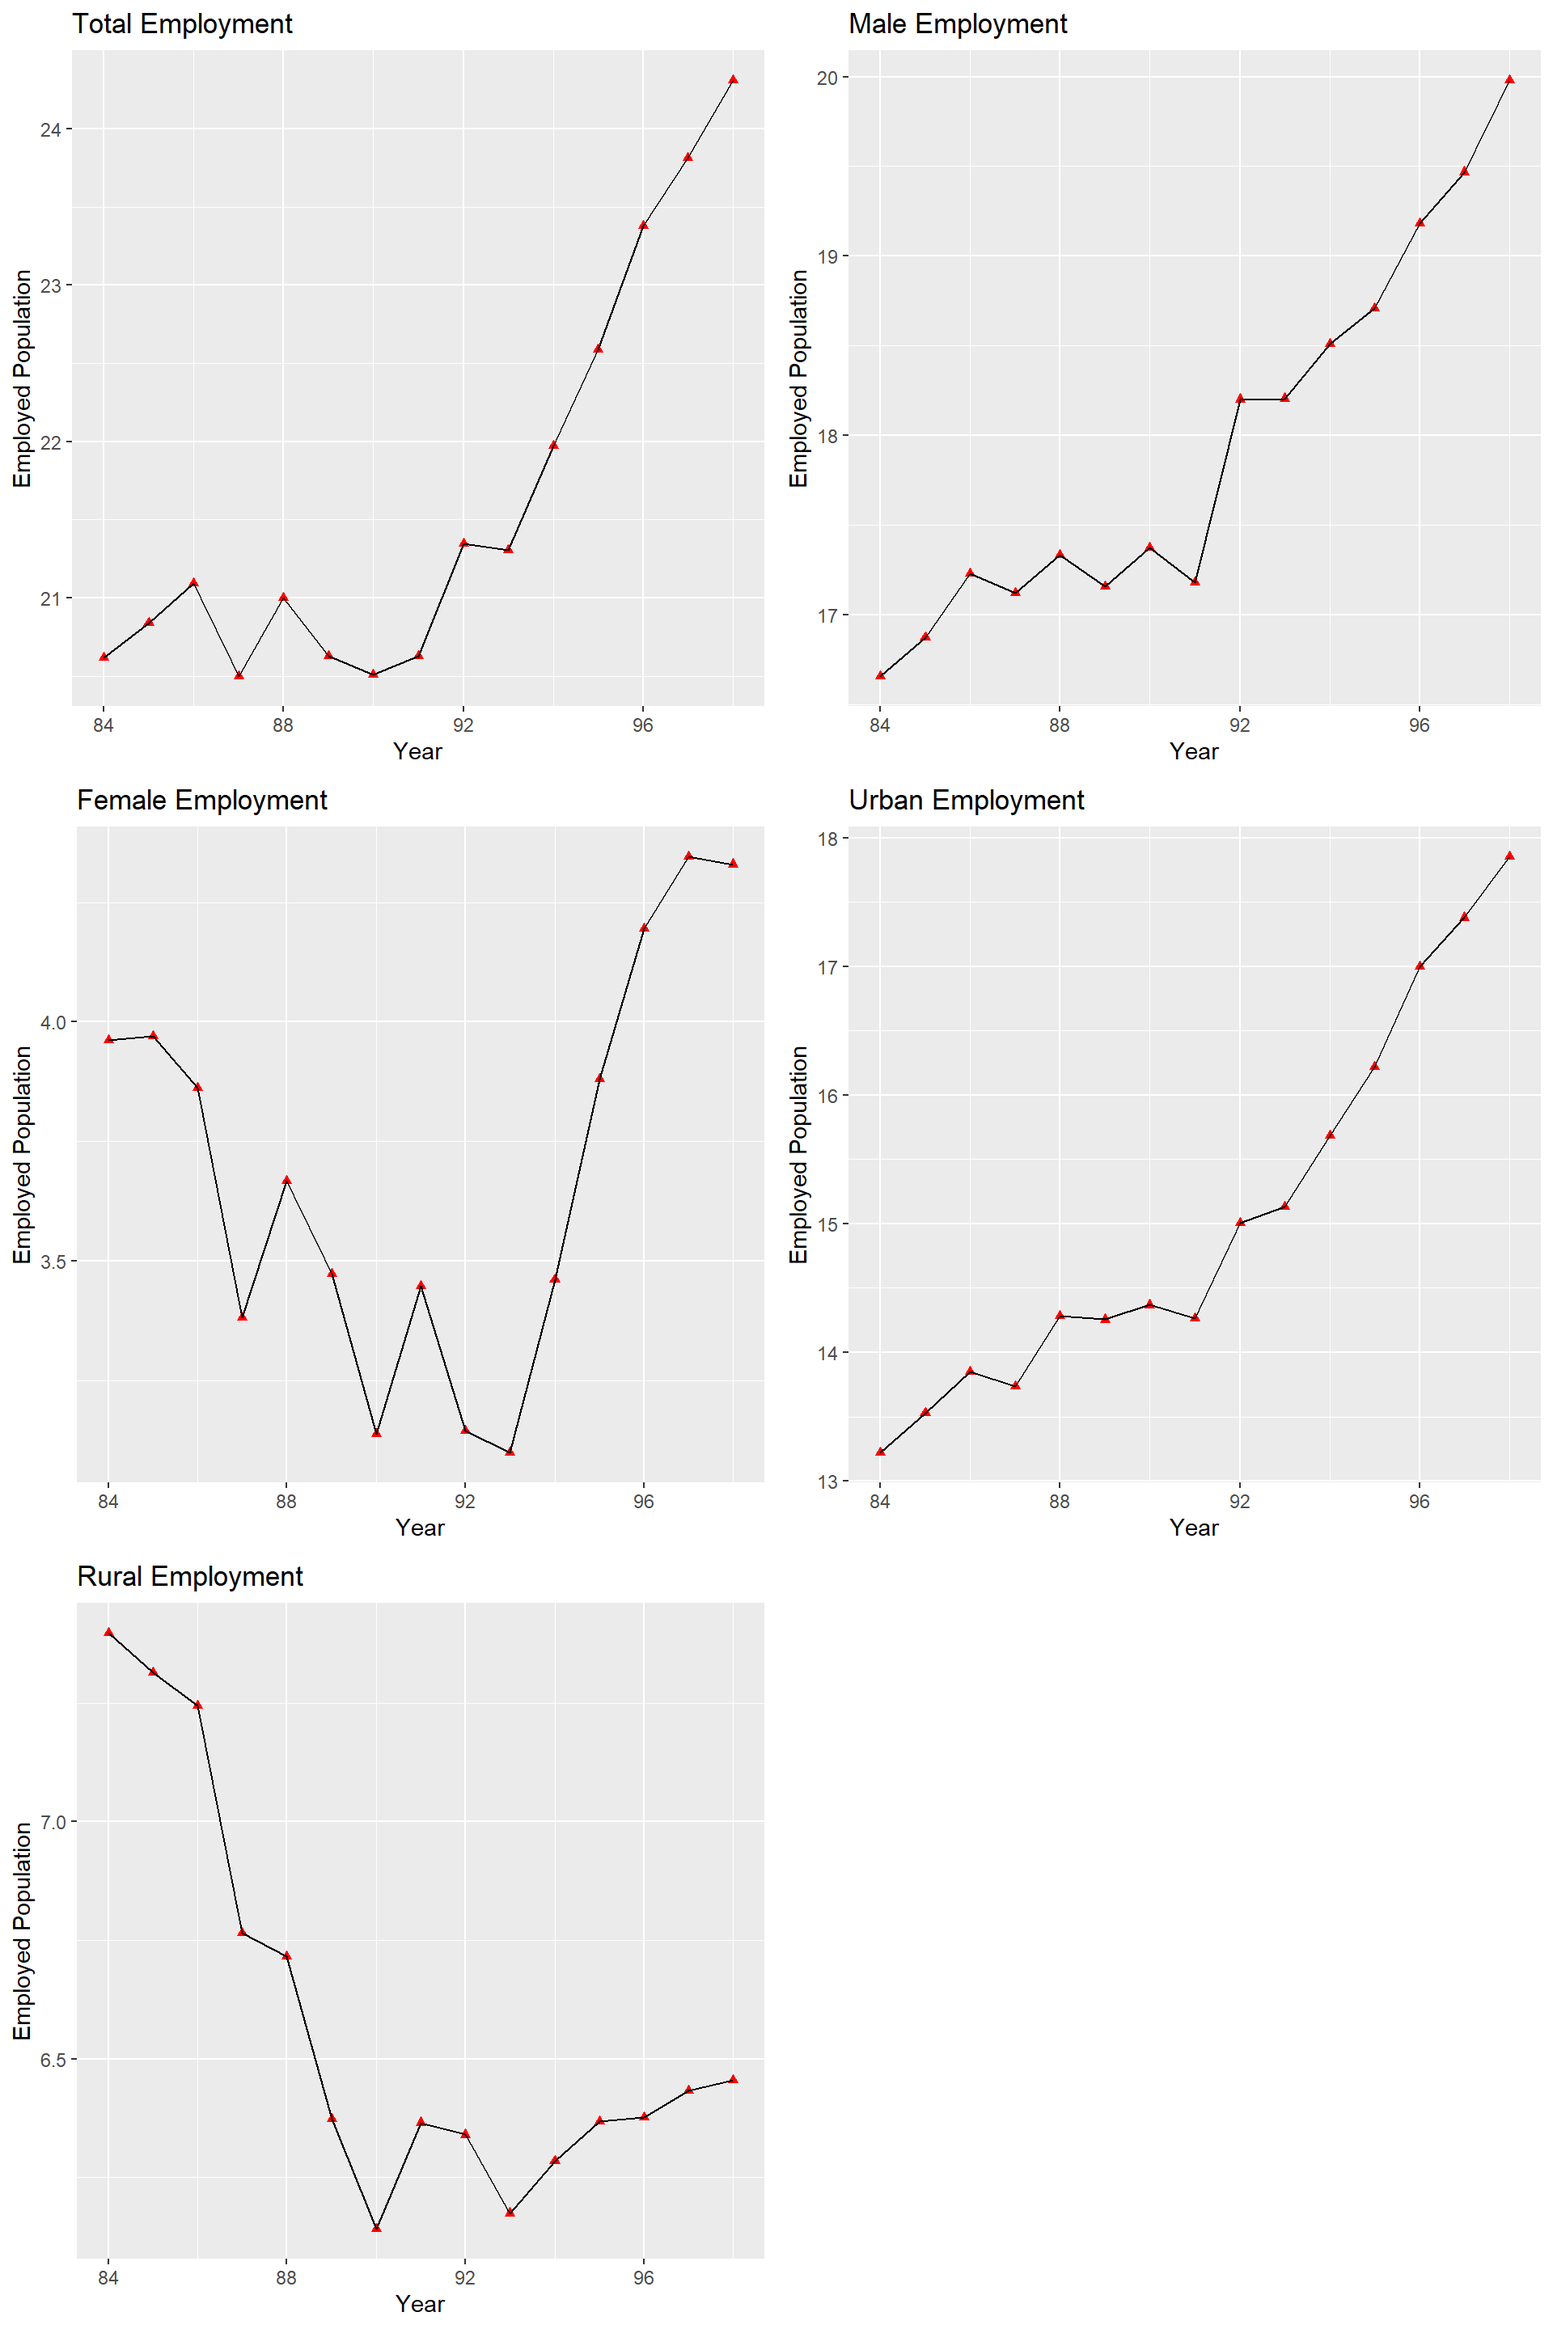
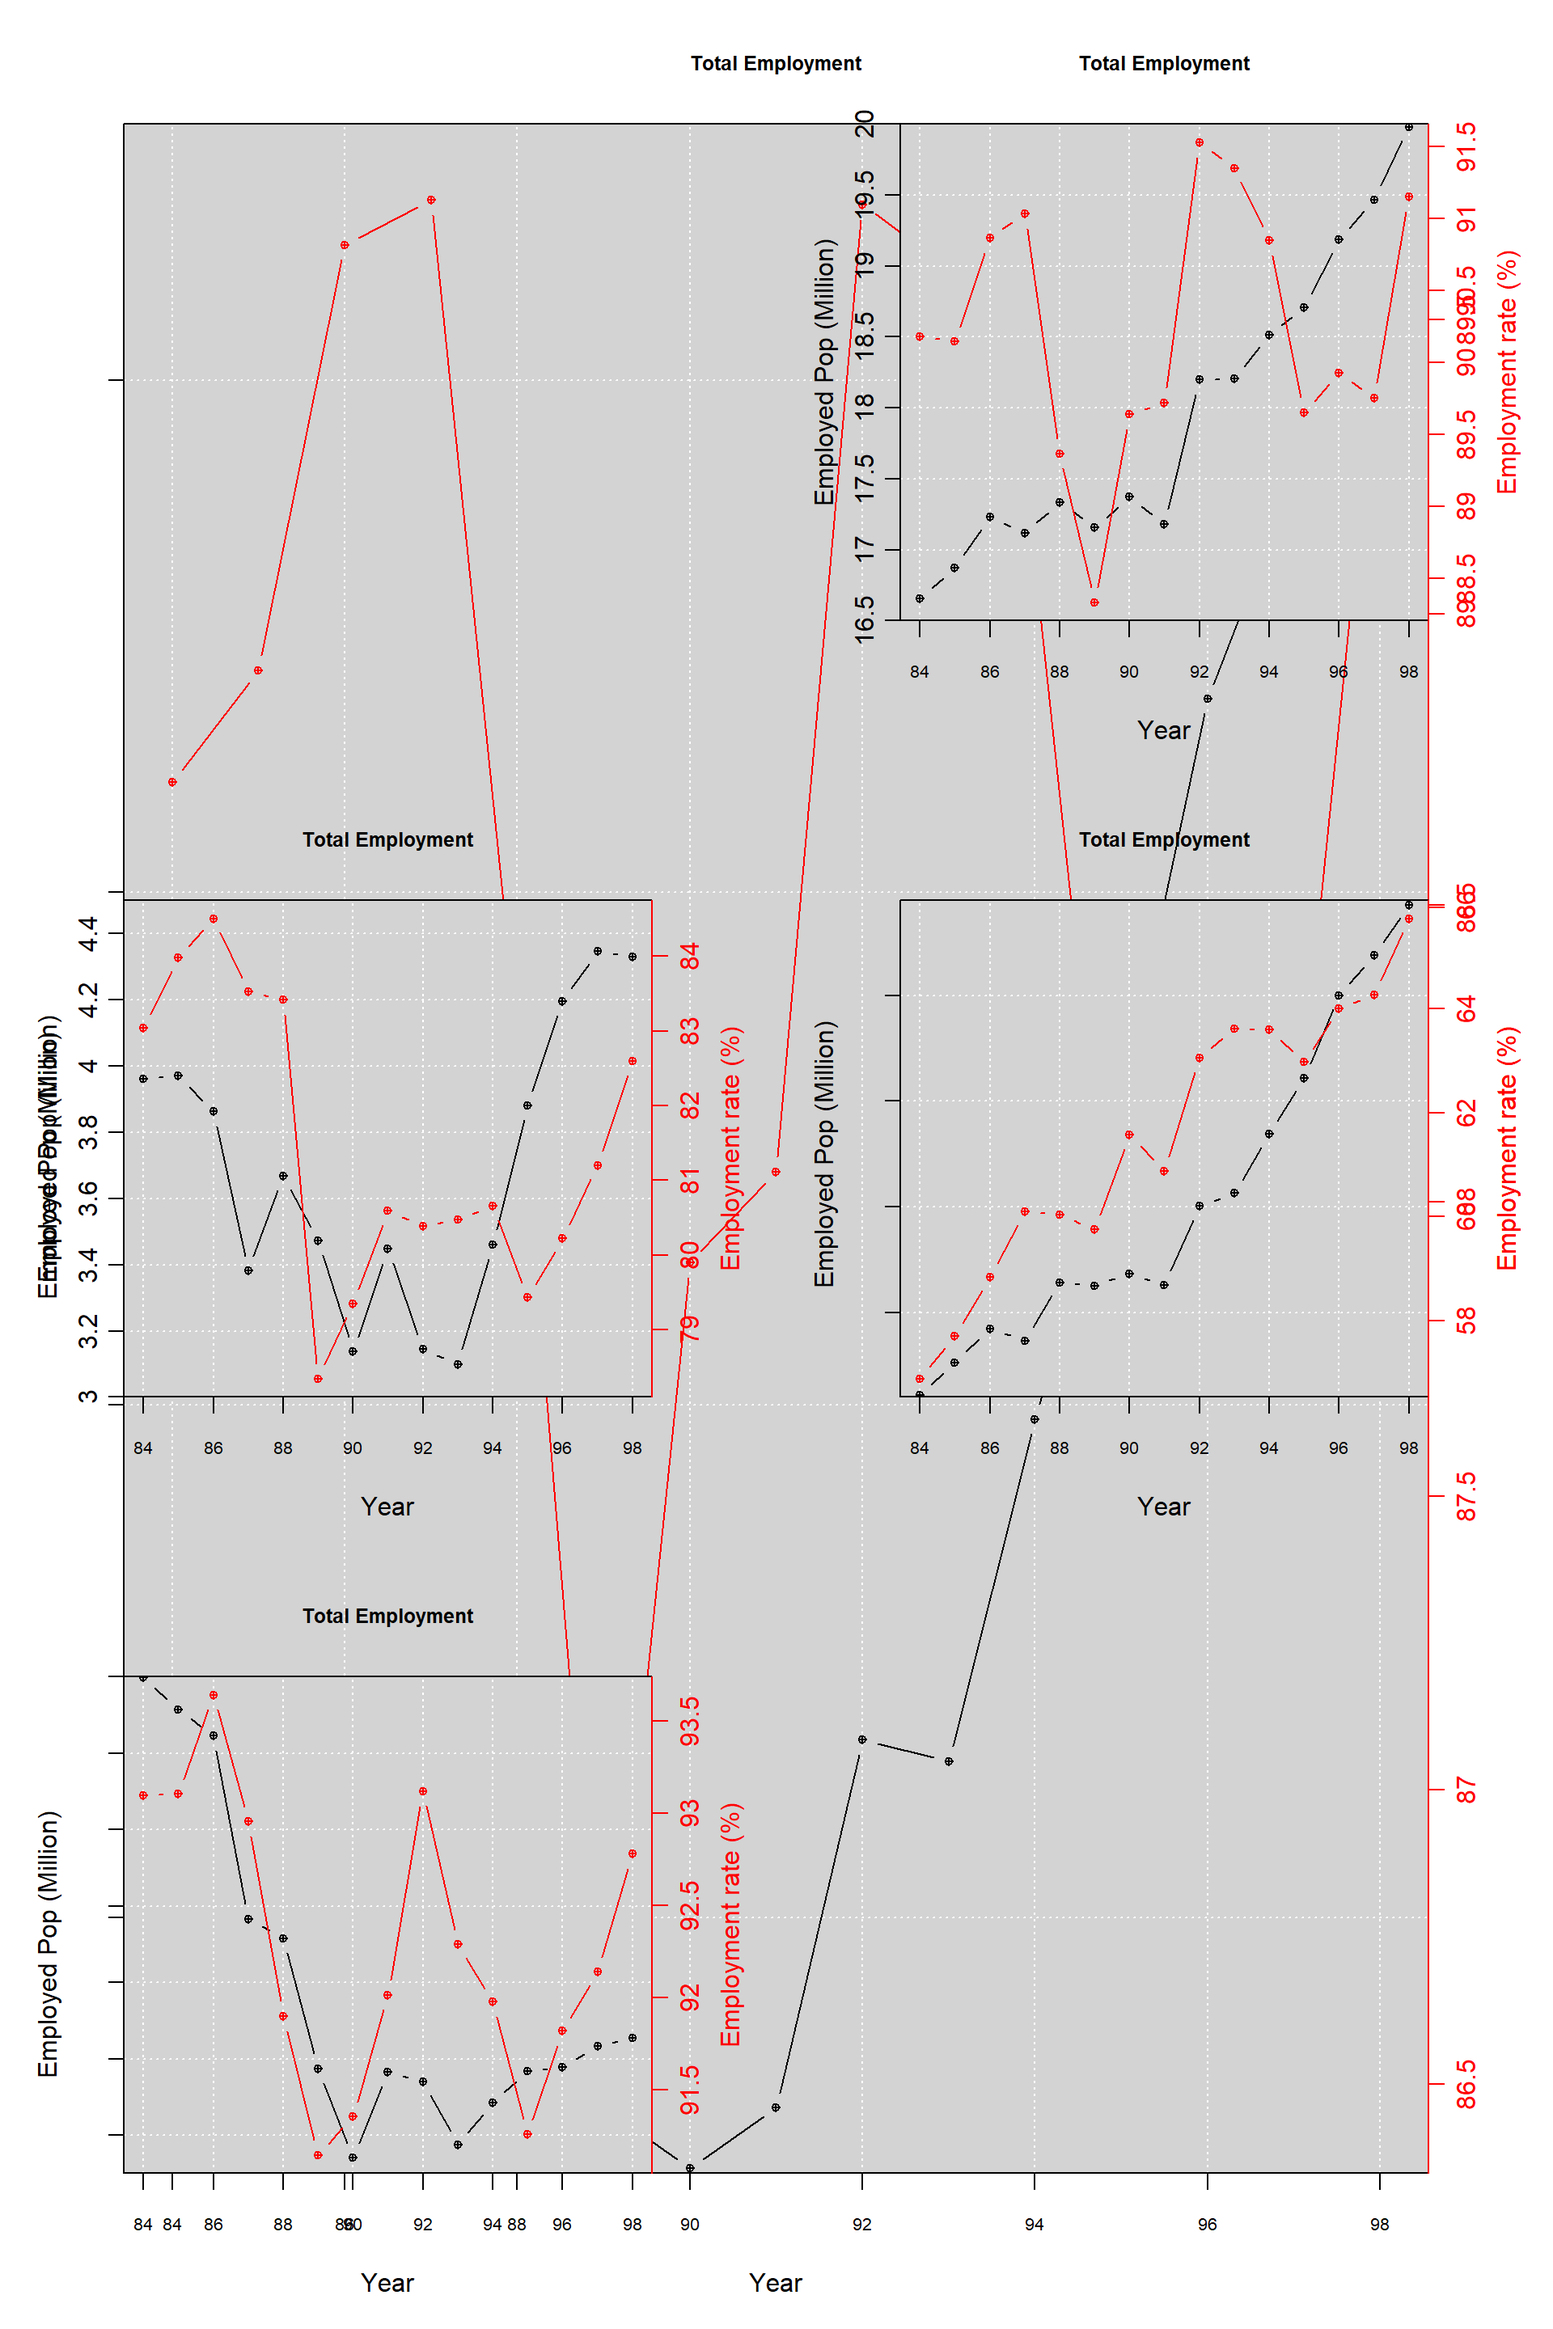
commit result of two axis plot

diff --git a/docs/descriptive-evidence.html b/docs/descriptive-evidence.html
@@ -4,11 +4,11 @@
 
   <meta charset="utf-8" />
   <meta http-equiv="X-UA-Compatible" content="IE=edge" />
-  <title>Chapter 6 Descriptive Evidence | Iran Labor Force Survey</title>
+  <title> 6 Descriptive Evidence | Iran Labor Force Survey</title>
   <meta name="description" content="This is a minimal example of using the bookdown package to write a book. The output format for this example is bookdown::gitbook." />
   <meta name="generator" content="bookdown 0.22 and GitBook 2.6.7" />
 
-  <meta property="og:title" content="Chapter 6 Descriptive Evidence | Iran Labor Force Survey" />
+  <meta property="og:title" content=" 6 Descriptive Evidence | Iran Labor Force Survey" />
   <meta property="og:type" content="book" />
   
   
@@ -16,7 +16,7 @@
   <meta name="github-repo" content="rstudio/bookdown-demo" />
 
   <meta name="twitter:card" content="summary" />
-  <meta name="twitter:title" content="Chapter 6 Descriptive Evidence | Iran Labor Force Survey" />
+  <meta name="twitter:title" content=" 6 Descriptive Evidence | Iran Labor Force Survey" />
   
   <meta name="twitter:description" content="This is a minimal example of using the bookdown package to write a book. The output format for this example is bookdown::gitbook." />
   
@@ -221,30 +221,91 @@ code span.wa { color: #60a0b0; font-weight: bold; font-style: italic; } /* Warni
 
             <section class="normal" id="section-">
 <div id="descriptive-evidence" class="section level1" number="6">
-<h1><span class="header-section-number">Chapter 6</span> Descriptive Evidence</h1>
-<p><img src="Figures/Employment%20Status.svg" /></p>
+<h1><span class="header-section-number"> 6</span> Descriptive Evidence</h1>
+<p><img src="C:/Users/ali/Dropbox/LFS%20Cleaning/GitHub/RMarkDown/Figures/Employment%20Status.svg" /></p>
 <div class="sourceCode" id="cb1"><pre class="sourceCode r"><code class="sourceCode r"><span id="cb1-1"><a href="descriptive-evidence.html#cb1-1" aria-hidden="true" tabindex="-1"></a>LFS_Indicators_Y <span class="ot">&lt;-</span> <span class="fu">readRDS</span>(<span class="st">&quot;C:/Users/ali/Dropbox/LFS Cleaning/GitHub/R Codes/Consistency/LFS_Indicators_Y.RDS&quot;</span>)</span>
 <span id="cb1-2"><a href="descriptive-evidence.html#cb1-2" aria-hidden="true" tabindex="-1"></a></span>
-<span id="cb1-3"><a href="descriptive-evidence.html#cb1-3" aria-hidden="true" tabindex="-1"></a></span>
-<span id="cb1-4"><a href="descriptive-evidence.html#cb1-4" aria-hidden="true" tabindex="-1"></a>LFSINP  <span class="ot">&lt;-</span> <span class="cf">function</span>(Var, <span class="at">xlab =</span> <span class="st">&quot;&quot;</span>, <span class="at">ylab =</span> <span class="st">&quot;&quot;</span>, <span class="at">Main =</span> <span class="st">&quot;&quot;</span>) {</span>
-<span id="cb1-5"><a href="descriptive-evidence.html#cb1-5" aria-hidden="true" tabindex="-1"></a>  </span>
-<span id="cb1-6"><a href="descriptive-evidence.html#cb1-6" aria-hidden="true" tabindex="-1"></a>p <span class="ot">&lt;-</span> <span class="fu">ggplot</span>(<span class="at">data =</span> LFS_Indicators_Y,<span class="at">mapping =</span> <span class="fu">aes</span>(<span class="at">x=</span>Year,<span class="at">y=</span><span class="fu">eval</span>(<span class="fu">parse</span>(<span class="at">text =</span>Var ))<span class="sc">/</span><span class="dv">1000000</span>))<span class="sc">+</span></span>
-<span id="cb1-7"><a href="descriptive-evidence.html#cb1-7" aria-hidden="true" tabindex="-1"></a>  <span class="fu">geom_point</span>(<span class="at">color =</span> <span class="st">&quot;Red&quot;</span>,<span class="at">shape =</span> <span class="dv">17</span>)<span class="sc">+</span></span>
-<span id="cb1-8"><a href="descriptive-evidence.html#cb1-8" aria-hidden="true" tabindex="-1"></a>  <span class="fu">geom_line</span>()<span class="sc">+</span></span>
-<span id="cb1-9"><a href="descriptive-evidence.html#cb1-9" aria-hidden="true" tabindex="-1"></a>  <span class="fu">labs</span>(<span class="at">title =</span> Main,<span class="at">x=</span>xlab,<span class="at">y=</span>ylab)</span>
-<span id="cb1-10"><a href="descriptive-evidence.html#cb1-10" aria-hidden="true" tabindex="-1"></a>  <span class="fu">return</span>(p)</span>
-<span id="cb1-11"><a href="descriptive-evidence.html#cb1-11" aria-hidden="true" tabindex="-1"></a>}</span></code></pre></div>
+<span id="cb1-3"><a href="descriptive-evidence.html#cb1-3" aria-hidden="true" tabindex="-1"></a>LFS_Indicators_Y <span class="ot">&lt;-</span> LFS_Indicators_Y<span class="sc">%&gt;%</span></span>
+<span id="cb1-4"><a href="descriptive-evidence.html#cb1-4" aria-hidden="true" tabindex="-1"></a>  <span class="fu">mutate</span>(<span class="at">EMPR_T =</span> Total_Employment<span class="sc">/</span>Total_Participation,</span>
+<span id="cb1-5"><a href="descriptive-evidence.html#cb1-5" aria-hidden="true" tabindex="-1"></a>         <span class="at">EMPR_M =</span> Male_Employment<span class="sc">/</span>Male_Participation,</span>
+<span id="cb1-6"><a href="descriptive-evidence.html#cb1-6" aria-hidden="true" tabindex="-1"></a>         <span class="at">EMPR_F =</span> Female_Employment<span class="sc">/</span>Female_Participation,</span>
+<span id="cb1-7"><a href="descriptive-evidence.html#cb1-7" aria-hidden="true" tabindex="-1"></a>         <span class="at">EMPR_U =</span> Urban_Employment<span class="sc">/</span>Total_Participation,</span>
+<span id="cb1-8"><a href="descriptive-evidence.html#cb1-8" aria-hidden="true" tabindex="-1"></a>         <span class="at">EMPR_R =</span> Rural_Employment<span class="sc">/</span>Rural_Participation,</span>
+<span id="cb1-9"><a href="descriptive-evidence.html#cb1-9" aria-hidden="true" tabindex="-1"></a>         <span class="at">UMPR_T =</span> Total_Unemployment <span class="sc">/</span> Total_Participation,</span>
+<span id="cb1-10"><a href="descriptive-evidence.html#cb1-10" aria-hidden="true" tabindex="-1"></a>         <span class="at">UMPR_M =</span> Male_Unemployment<span class="sc">/</span>Male_Participation,</span>
+<span id="cb1-11"><a href="descriptive-evidence.html#cb1-11" aria-hidden="true" tabindex="-1"></a>         <span class="at">UMPR_F =</span> Female_Unemployment<span class="sc">/</span>Female_Participation,</span>
+<span id="cb1-12"><a href="descriptive-evidence.html#cb1-12" aria-hidden="true" tabindex="-1"></a>         <span class="at">UMPR_U =</span> Urban_Unemployment<span class="sc">/</span>Urban_Participation,</span>
+<span id="cb1-13"><a href="descriptive-evidence.html#cb1-13" aria-hidden="true" tabindex="-1"></a>         <span class="at">UMPR_R =</span> Rural_Unemployment<span class="sc">/</span>Rural_Participation)<span class="sc">%&gt;%</span></span>
+<span id="cb1-14"><a href="descriptive-evidence.html#cb1-14" aria-hidden="true" tabindex="-1"></a>  <span class="fu">mutate_at</span>(<span class="fu">vars</span>(Male_Employment<span class="sc">:</span>Urban_Participation),<span class="st">`</span><span class="at">/</span><span class="st">`</span>,<span class="dv">1000000</span>)<span class="sc">%&gt;%</span></span>
+<span id="cb1-15"><a href="descriptive-evidence.html#cb1-15" aria-hidden="true" tabindex="-1"></a>  <span class="fu">mutate_at</span>(<span class="fu">vars</span>(EMPR_T<span class="sc">:</span>UMPR_R),<span class="st">`</span><span class="at">*</span><span class="st">`</span>,<span class="dv">100</span>)</span>
+<span id="cb1-16"><a href="descriptive-evidence.html#cb1-16" aria-hidden="true" tabindex="-1"></a></span>
+<span id="cb1-17"><a href="descriptive-evidence.html#cb1-17" aria-hidden="true" tabindex="-1"></a>LFSINP <span class="ot">&lt;-</span> <span class="cf">function</span>(df,<span class="at">x =</span> <span class="st">&quot;&quot;</span>,<span class="at">y1 =</span> <span class="st">&quot;&quot;</span>, <span class="at">y2 =</span> <span class="st">&quot;&quot;</span>, <span class="at">Main =</span> <span class="st">&quot;&quot;</span>,<span class="at">y1l =</span> <span class="st">&quot;&quot;</span> ,<span class="at">y2l =</span> <span class="st">&quot;&quot;</span>,<span class="at">y1lim =</span><span class="cn">NULL</span> ){</span>
+<span id="cb1-18"><a href="descriptive-evidence.html#cb1-18" aria-hidden="true" tabindex="-1"></a>  P <span class="ot">&lt;-</span> <span class="fu">twoord.plot</span>(<span class="at">lx =</span> x, <span class="at">ly =</span>y1 , <span class="at">rx =</span> x , <span class="at">ry =</span>y2, <span class="at">data =</span> df,<span class="at">lylim =</span> y1lim,</span>
+<span id="cb1-19"><a href="descriptive-evidence.html#cb1-19" aria-hidden="true" tabindex="-1"></a>                   <span class="at">main =</span> Main , <span class="at">ylab =</span>y1l, <span class="at">rylab =</span> y2l , <span class="at">lpch =</span> <span class="dv">10</span>,<span class="at">rpch =</span> <span class="dv">10</span>,</span>
+<span id="cb1-20"><a href="descriptive-evidence.html#cb1-20" aria-hidden="true" tabindex="-1"></a>                   <span class="at">lcol =</span> <span class="st">&quot;black&quot;</span> ,<span class="at">rcol =</span> <span class="st">&quot;red&quot;</span>,<span class="at">xlab =</span> <span class="st">&quot;Year&quot;</span>,</span>
+<span id="cb1-21"><a href="descriptive-evidence.html#cb1-21" aria-hidden="true" tabindex="-1"></a>                   <span class="at">do.first=</span><span class="st">&quot;plot_bg();grid(col=</span><span class="sc">\&quot;</span><span class="st">white</span><span class="sc">\&quot;</span><span class="st">,lty=15)&quot;</span>)</span>
+<span id="cb1-22"><a href="descriptive-evidence.html#cb1-22" aria-hidden="true" tabindex="-1"></a>  <span class="fu">return</span>(P)</span>
+<span id="cb1-23"><a href="descriptive-evidence.html#cb1-23" aria-hidden="true" tabindex="-1"></a>}</span>
+<span id="cb1-24"><a href="descriptive-evidence.html#cb1-24" aria-hidden="true" tabindex="-1"></a></span>
+<span id="cb1-25"><a href="descriptive-evidence.html#cb1-25" aria-hidden="true" tabindex="-1"></a><span class="co">#LFSINP  &lt;- function(Var, xlab = &quot;&quot;, ylab = &quot;&quot;, Main = &quot;&quot;) {</span></span>
+<span id="cb1-26"><a href="descriptive-evidence.html#cb1-26" aria-hidden="true" tabindex="-1"></a>  </span>
+<span id="cb1-27"><a href="descriptive-evidence.html#cb1-27" aria-hidden="true" tabindex="-1"></a><span class="co">#p &lt;- ggplot(data = LFS_Indicators_Y,mapping = aes(x=Year,y=eval(parse(text =Var #))/1000000))+</span></span>
+<span id="cb1-28"><a href="descriptive-evidence.html#cb1-28" aria-hidden="true" tabindex="-1"></a><span class="co">#  geom_point(color = &quot;Red&quot;,shape = 17)+</span></span>
+<span id="cb1-29"><a href="descriptive-evidence.html#cb1-29" aria-hidden="true" tabindex="-1"></a><span class="co">#  geom_line()+</span></span>
+<span id="cb1-30"><a href="descriptive-evidence.html#cb1-30" aria-hidden="true" tabindex="-1"></a><span class="co">#  labs(title = Main,x=xlab,y=ylab)</span></span>
+<span id="cb1-31"><a href="descriptive-evidence.html#cb1-31" aria-hidden="true" tabindex="-1"></a><span class="co">#  return(p)</span></span>
+<span id="cb1-32"><a href="descriptive-evidence.html#cb1-32" aria-hidden="true" tabindex="-1"></a><span class="co">#}</span></span></code></pre></div>
 <div id="employment" class="section level2" number="6.1">
 <h2><span class="header-section-number">6.1</span> Employment</h2>
+<pre><code>## Warning in matrix(c(1, 2, 3, 4, 5), nrow = 3, ncol = 2, byrow = T): data length
+## [5] is not a sub-multiple or multiple of the number of rows [3]</code></pre>
+<pre><code>## $mar
+## [1] 5 4 4 4
+## 
+## $new
+## [1] FALSE
+## 
+## $col.axis
+## [1] &quot;black&quot;</code></pre>
+<pre><code>## $mar
+## [1] 5 4 4 4
+## 
+## $new
+## [1] FALSE
+## 
+## $col.axis
+## [1] &quot;black&quot;</code></pre>
+<pre><code>## $mar
+## [1] 5 4 4 4
+## 
+## $new
+## [1] FALSE
+## 
+## $col.axis
+## [1] &quot;black&quot;</code></pre>
+<pre><code>## $mar
+## [1] 5 4 4 4
+## 
+## $new
+## [1] FALSE
+## 
+## $col.axis
+## [1] &quot;black&quot;</code></pre>
 <p><img src="bookdown-demo_files/figure-html/unnamed-chunk-3-1.png" width="960" /></p>
+<pre><code>## $mar
+## [1] 5 4 4 4
+## 
+## $new
+## [1] FALSE
+## 
+## $col.axis
+## [1] &quot;black&quot;</code></pre>
 </div>
 <div id="unemployment" class="section level2" number="6.2">
 <h2><span class="header-section-number">6.2</span> Unemployment</h2>
-<p><img src="bookdown-demo_files/figure-html/unnamed-chunk-4-1.png" width="960" /></p>
 </div>
 <div id="participation" class="section level2" number="6.3">
 <h2><span class="header-section-number">6.3</span> Participation</h2>
-<p><img src="bookdown-demo_files/figure-html/unnamed-chunk-5-1.png" width="960" /></p>
 
 </div>
 </div>
